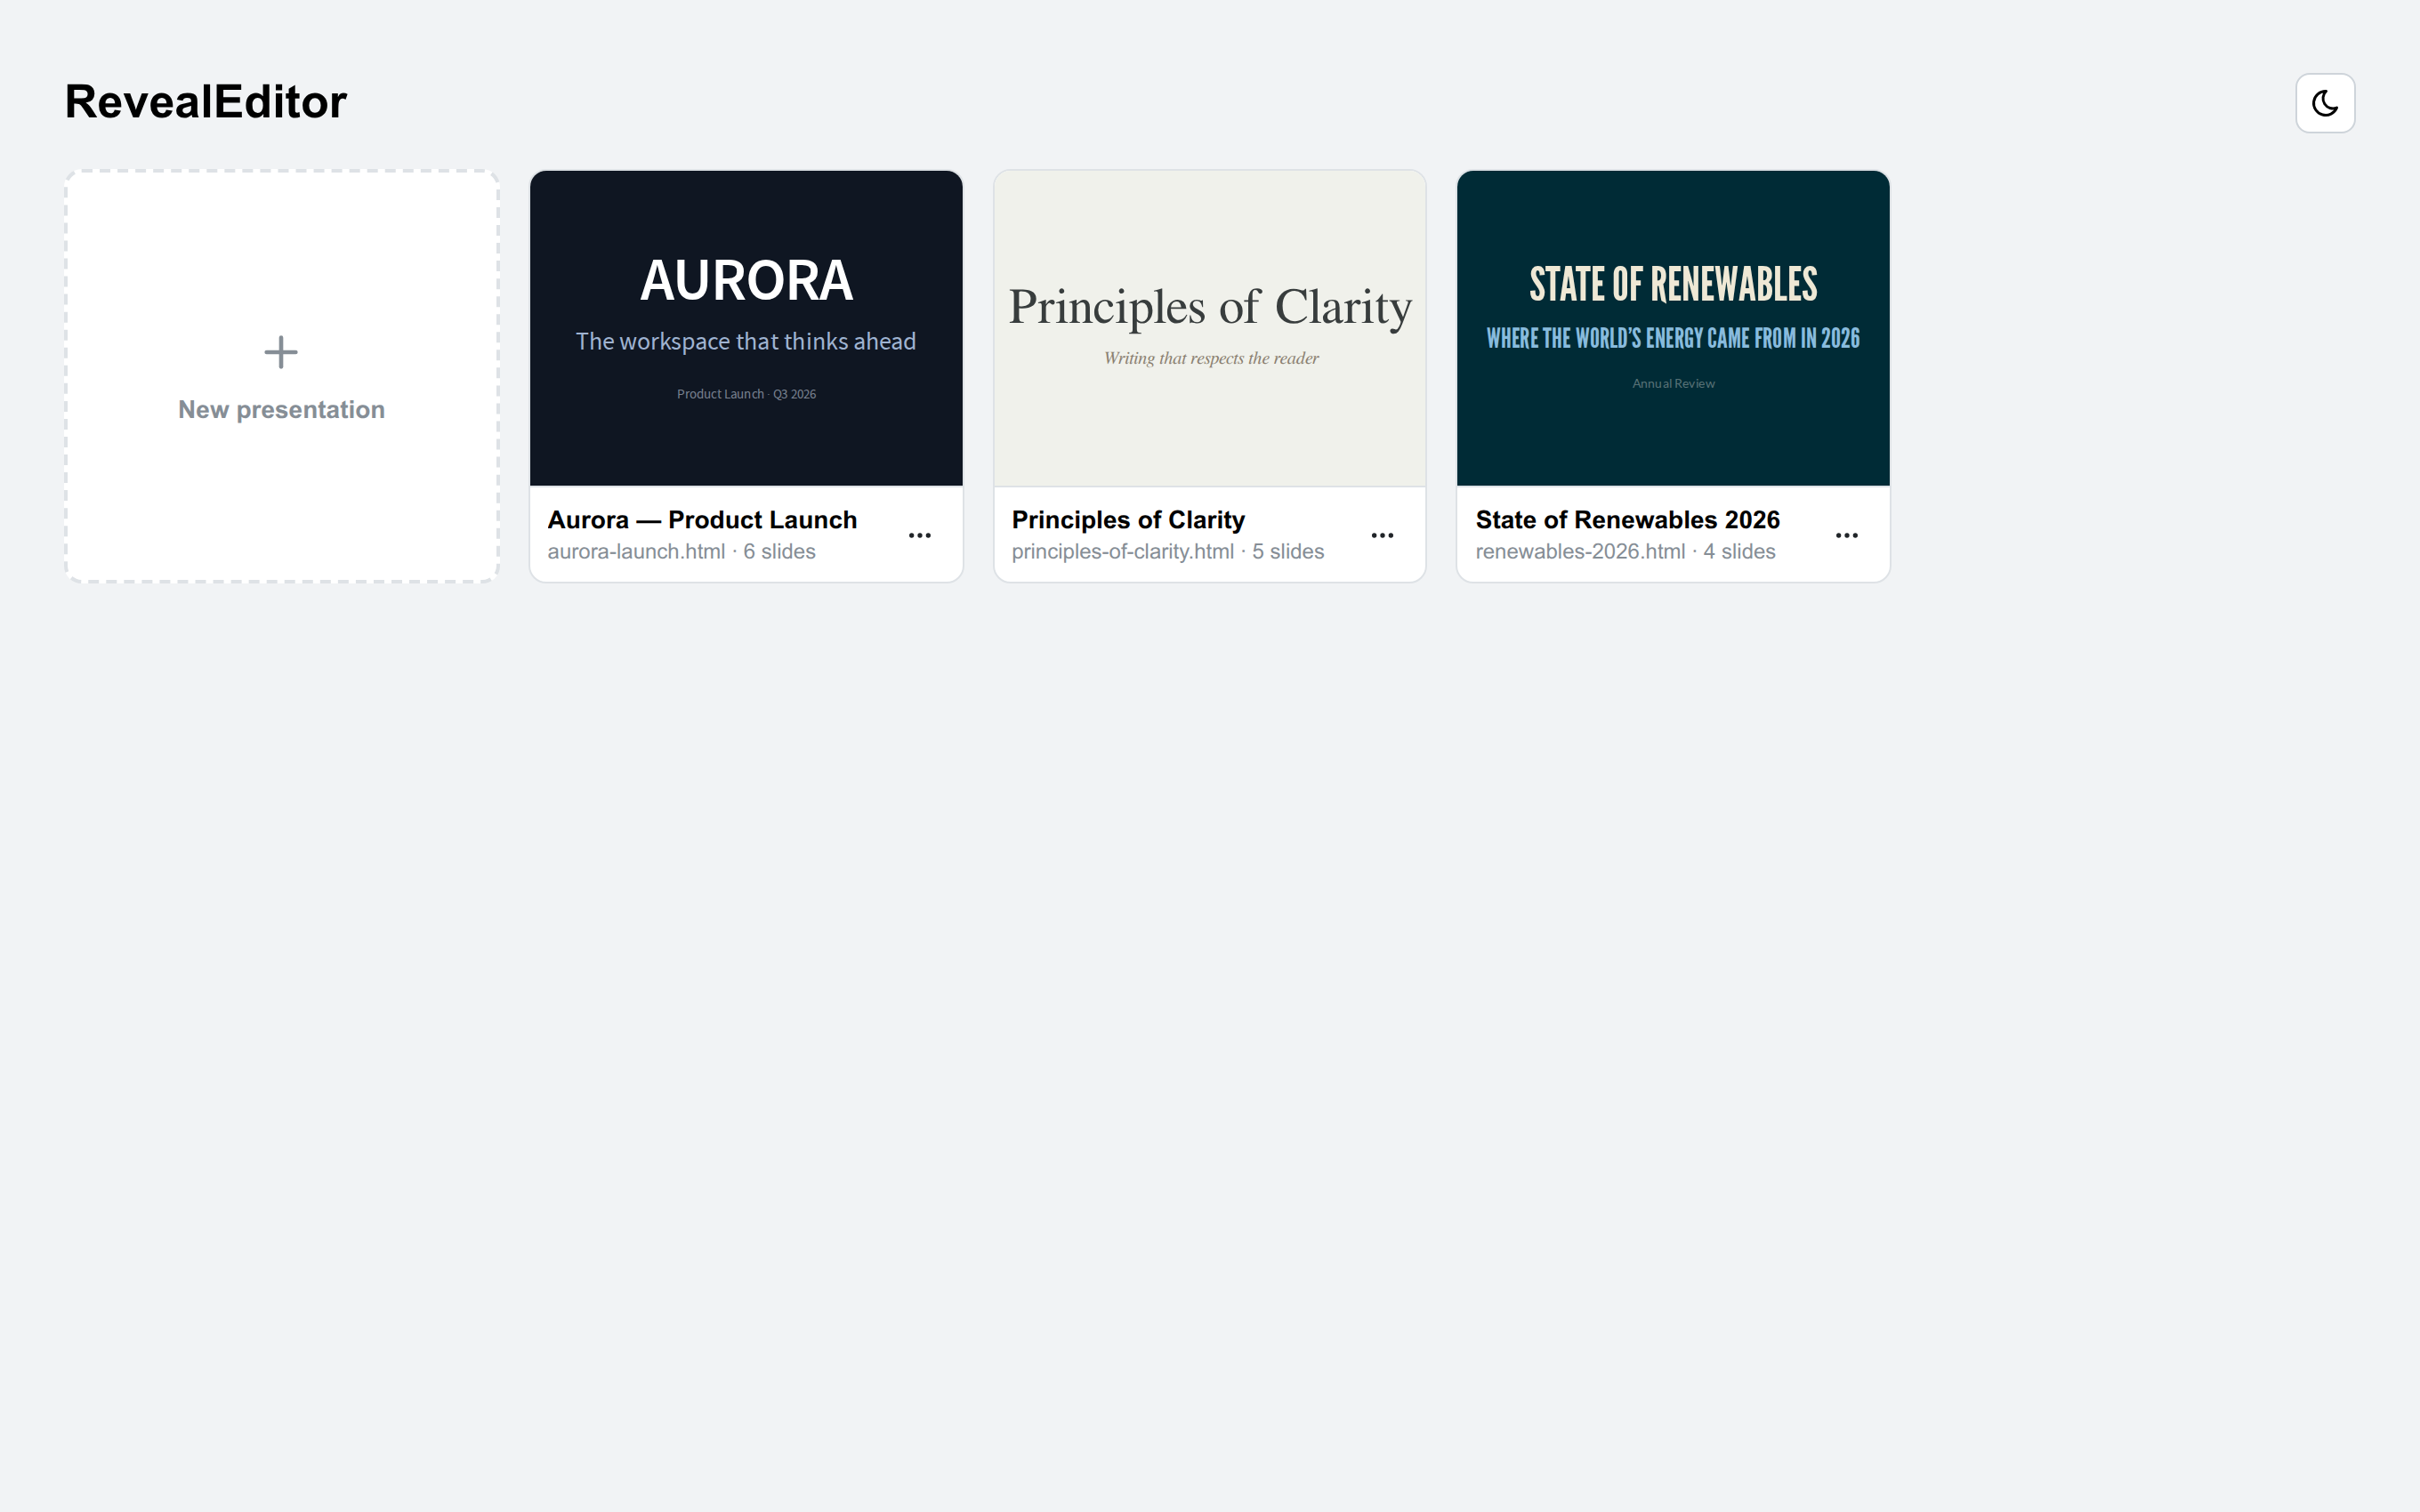
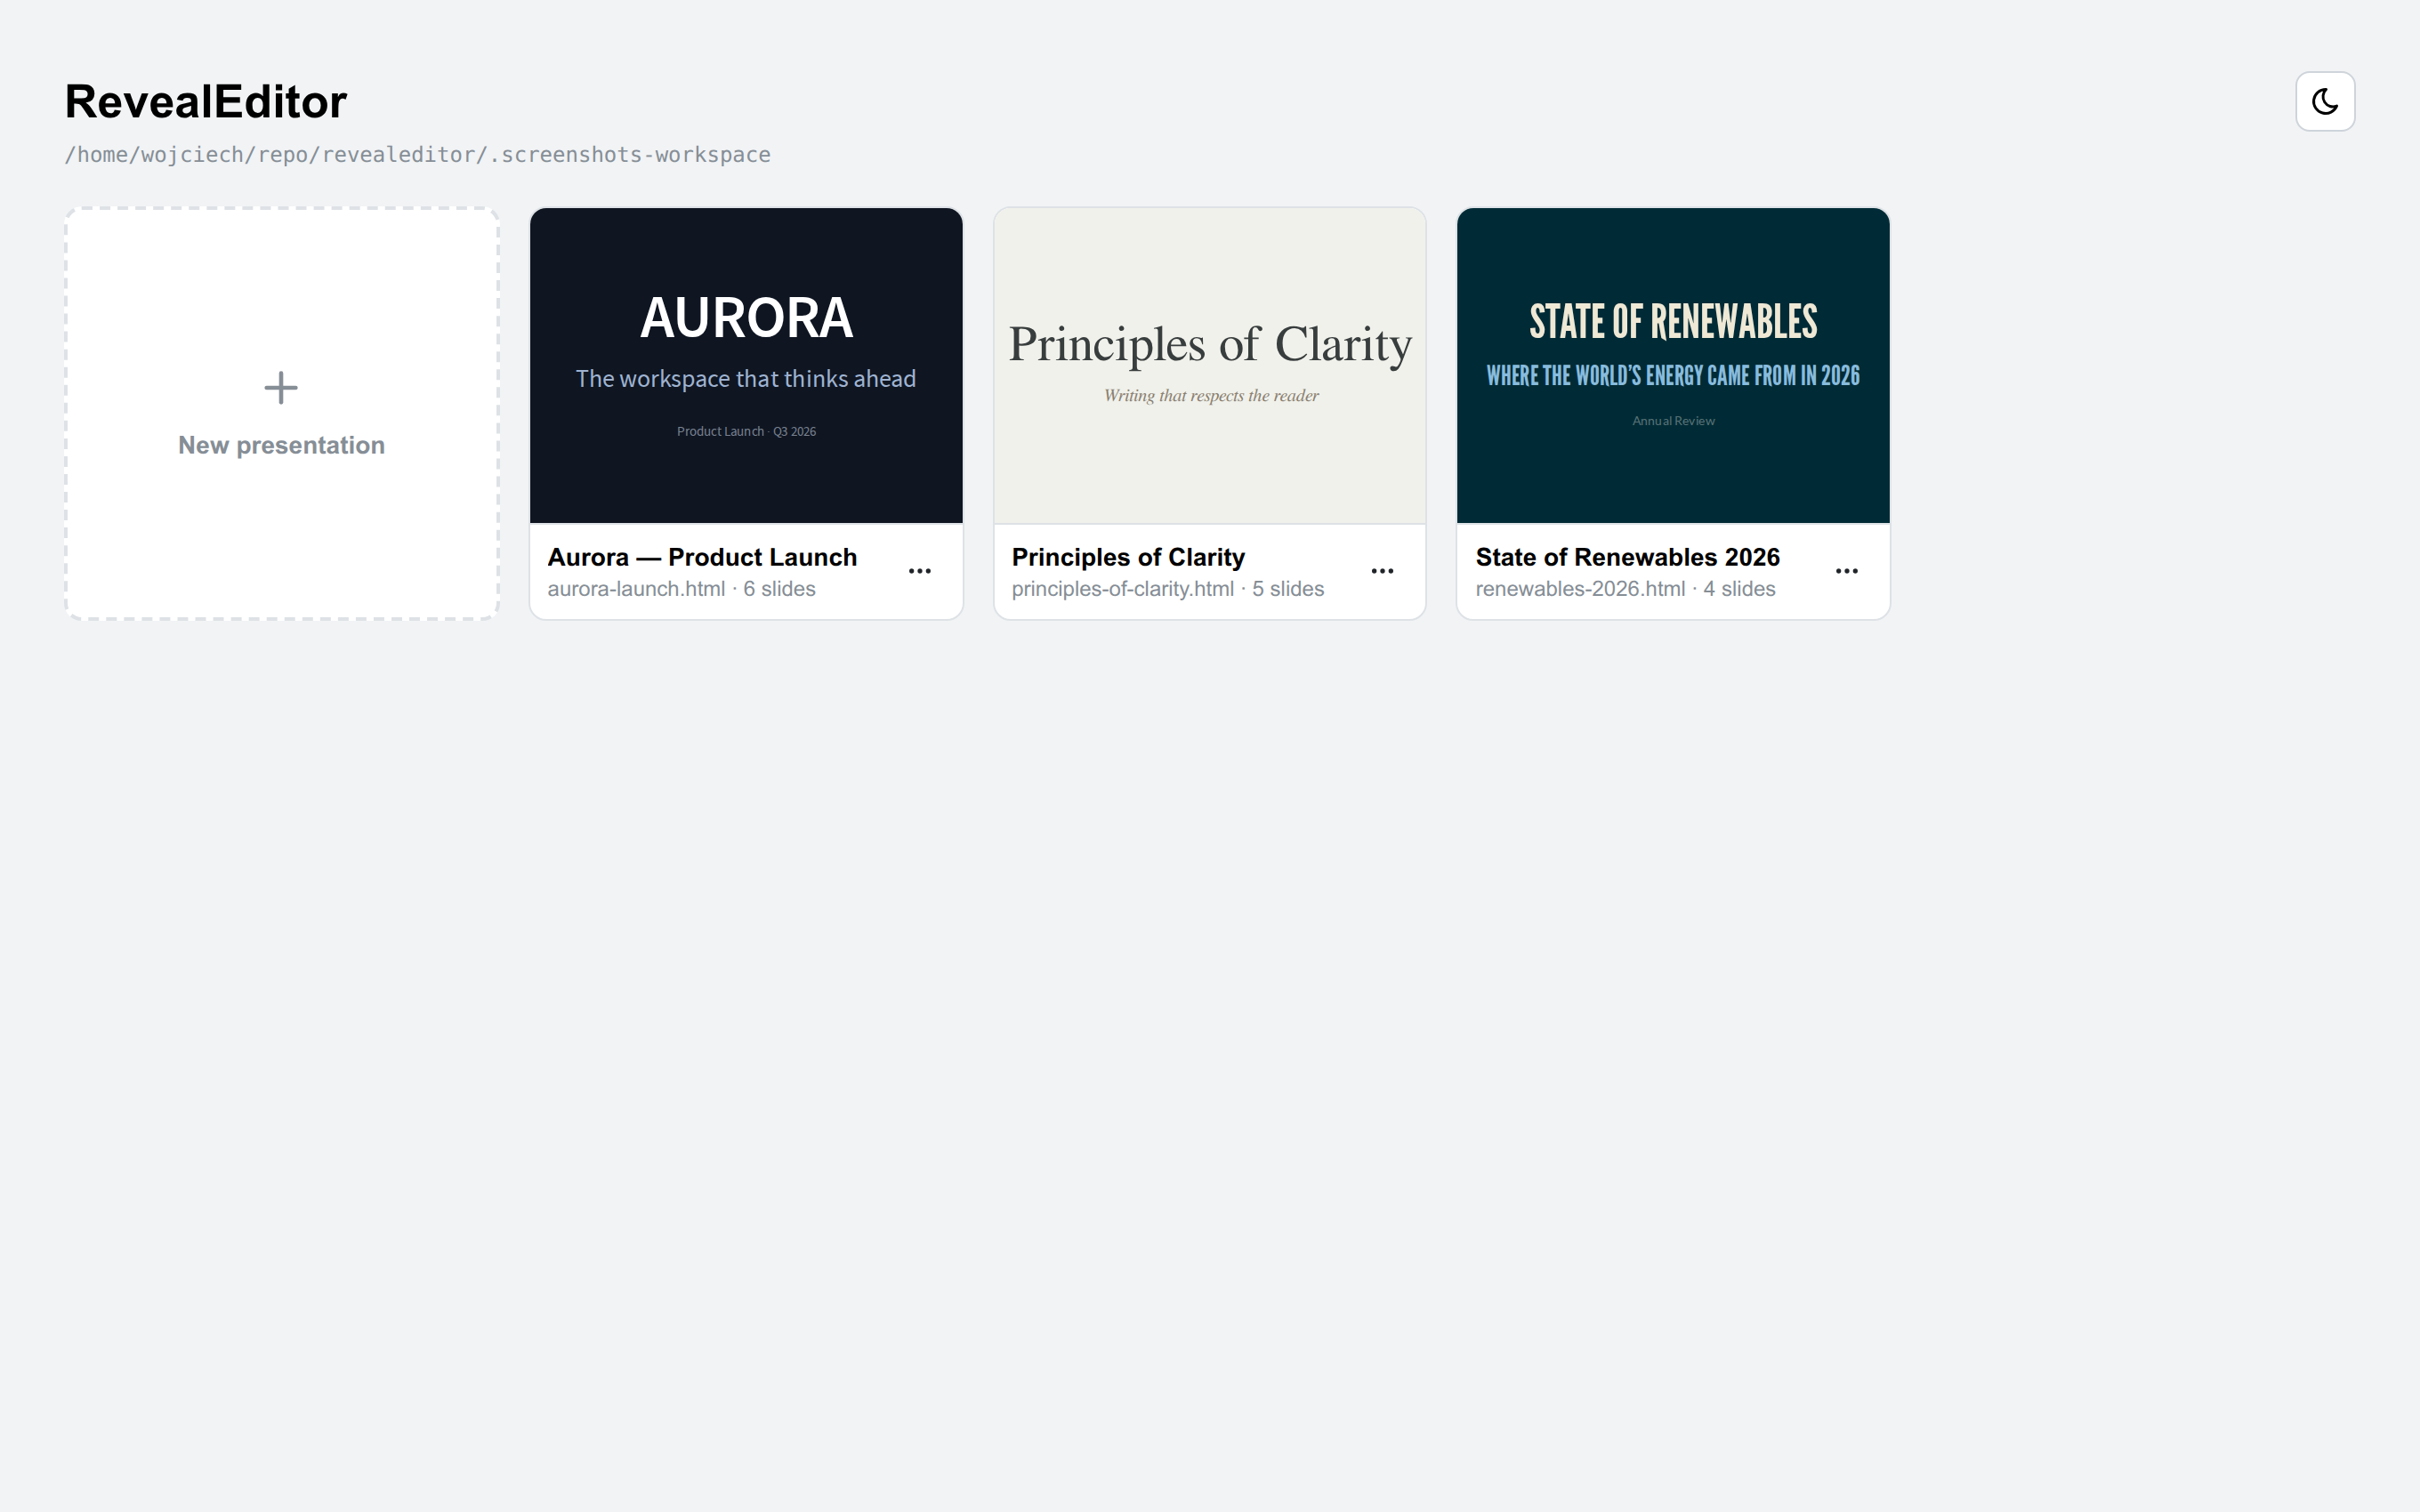
Expand tutorial with screenshots; ship example server config
- Tutorial: fuller 11-step, screenshot-driven walkthrough for end users
  (text ribbon, tables, charts, shapes gallery, inspector). Added 4 new
  captures (chart/shapes/table/text) and reshot deck-list/element-selected
  against the curated sample deck; USAGE Tables/Charts/Shapes now illustrated.
- screenshots.spec.ts: split into independent per-flow captures.
- Ship revealeditor.config.example.json as a committed template (the real
  revealeditor.config.json stays git-ignored); documented copy-and-edit in
  README/USAGE so workspace switching is discoverable.

Claude-Session: https://claude.ai/code/session_01CuvczRYR7o1XWsw8DCmA2P

diff --git a/scripts/screenshots.spec.ts b/scripts/screenshots.spec.ts
@@ -1,11 +1,11 @@
-import { test, expect, type Page } from '@playwright/test';
+import { test, type Page } from '@playwright/test';
 import path from 'node:path';
 
 /**
  * Captures the screenshots used by the docs site into docs/images/. Driven by
- * playwright.screenshots.config.ts against the built app + a curated
- * sample workspace (scripts/sample-workspace). Add a step here and reference
- * the PNG from the tutorial pages.
+ * playwright.screenshots.config.ts against the built app + a curated sample
+ * workspace (scripts/sample-workspace). Each capture is its own test so a
+ * flaky flow can't block the others. Reference the PNGs from the doc pages.
  */
 
 const OUT = path.join(process.cwd(), 'docs', 'images');
@@ -23,29 +23,72 @@ async function openShowcase(page: Page): Promise<void> {
   await page.waitForTimeout(700); // stage scale + theme fonts settle
 }
 
-test('capture docs screenshots', async ({ page }) => {
-  // 1) Deck list (the landing screen).
+test('deck list', async ({ page }) => {
   await page.goto('/');
   await page.getByText(SHOWCASE).waitFor();
   await page.waitForTimeout(500);
   await shot(page, 'deck-list');
+});
 
-  // 2) Editor overview — sorter + canvas + toolbar + inspector.
+test('editor overview', async ({ page }) => {
   await openShowcase(page);
   await shot(page, 'editor-overview');
+});
 
-  // 3) Insert menu open.
+test('insert menu', async ({ page }) => {
+  await openShowcase(page);
   await page.getByRole('button', { name: 'Insert' }).click();
   await page.waitForTimeout(300);
   await shot(page, 'insert-menu');
-  await page.keyboard.press('Escape');
+});
 
-  // 4) A content slide with an element selected → inspector populated.
+test('shapes gallery', async ({ page }) => {
+  await openShowcase(page);
+  await page.getByRole('button', { name: 'Shapes', exact: true }).click();
+  await page.locator('.shapes-grid').first().waitFor();
+  await page.waitForTimeout(200);
+  await shot(page, 'shapes-gallery');
+});
+
+test('element selected', async ({ page }) => {
+  await openShowcase(page);
   await page.locator('.sorter-slide').nth(1).click(); // "Why now" bullets slide
   await page.waitForTimeout(400);
   await stageFrame(page).locator('#re-stage h2').first().click();
   await page.waitForTimeout(400);
   await shot(page, 'element-selected');
+});
 
-  expect(true).toBe(true);
+test('text formatting', async ({ page }) => {
+  await openShowcase(page);
+  await page.locator('.sorter-slide').nth(1).click(); // bullets slide
+  await page.waitForTimeout(400);
+  // Double-click the list to enter a text editing session → the text ribbon shows.
+  await stageFrame(page).locator('#re-stage li').first().dblclick();
+  await page.waitForTimeout(500);
+  await shot(page, 'text-formatting');
+});
+
+test('chart modal', async ({ page }) => {
+  await openShowcase(page);
+  await page.getByRole('button', { name: 'Insert' }).click();
+  await page.getByRole('menuitem', { name: /Chart/ }).click();
+  await page.getByRole('heading', { name: 'Edit chart' }).waitFor();
+  await page.waitForTimeout(500);
+  await shot(page, 'chart-modal');
+});
+
+test('table editing', async ({ page }) => {
+  await openShowcase(page);
+  await page.locator('.sorter-slide').nth(3).click(); // "How it works" — a light slide with room
+  await page.waitForTimeout(400);
+  await page.getByRole('button', { name: 'Insert' }).click();
+  await page.getByRole('menuitem', { name: 'Table' }).click();
+  await page.waitForTimeout(600); // first insert adds preset CSS → stage reload
+  const cell = stageFrame(page).locator('#re-stage tbody td').first();
+  await cell.click();
+  await page.waitForTimeout(150);
+  await cell.click(); // second click opens the cell session
+  await page.waitForTimeout(400);
+  await shot(page, 'table-editing');
 });

diff --git a/docs/TUTORIAL.md b/docs/TUTORIAL.md
@@ -1,12 +1,13 @@
 # Tutorial: your first deck
 
-A hands-on walkthrough. By the end you'll have opened a deck, edited it, added
-content, and exported it — the whole loop. It takes about ten minutes. For a
-reference-style rundown of every feature, see the [user guide](USAGE.md).
+A hands-on walkthrough. By the end you'll have opened a deck, edited its text,
+added a table, a chart and a shape, positioned things, and exported the result —
+the whole loop. Budget about fifteen minutes. For a reference-style rundown of
+every feature, see the [user guide](USAGE.md).
 
 > **Setup:** if the app isn't running yet, do `npm install` then `npm run dev`
-> and open <http://localhost:5173>. See [Getting started](USAGE.md#getting-started)
-> to point it at your own folder of talks.
+> and open <http://localhost:5173>. To edit your own folder of talks, see
+> [Choosing a workspace folder](USAGE.md#choosing-a-workspace-folder).
 
 ## 1. Pick a deck
 
@@ -16,8 +17,8 @@ slide count and when it was last changed.
 ![The deck list](images/deck-list.png)
 
 Click a deck to open it, or **New presentation** to start from a template
-(you'll choose a title, theme and slide size). For this tutorial, open the
-**RevealEditor demo deck**.
+(you'll choose a title, theme and slide size). Follow along with any deck you
+like — the steps below are the same for all of them.
 
 ## 2. Get your bearings
 
@@ -25,80 +26,113 @@ The editor has four areas:
 
 ![The editor](images/editor-overview.png)
 
-- **Sorter** (left) — every slide in the deck as a 2-D map. Horizontal =
-  the main flow; vertical stacks = sub-slides. Drag to reorder; hover a
-  thumbnail for its actions.
-- **Canvas** (center) — the current slide, rendered with the deck's real
-  theme. This is where you edit.
+- **Sorter** (left) — every slide as a 2-D map. Horizontal = the main flow;
+  vertical stacks = sub-slides. Drag to reorder; hover a thumbnail for its
+  actions.
+- **Canvas** (center) — the current slide, rendered with the deck's real theme.
+  This is where you edit.
 - **Toolbar** (top) — the formatting ribbon plus deck actions (PDF, ZIP,
   Offline, Present, Save).
-- **Inspector** (right) — properties for whatever is selected, or for the
-  slide itself when nothing is.
+- **Inspector** (right) — properties for whatever is selected, or for the slide
+  itself when nothing is.
 
-## 3. Edit some text
+Two clicks are worth remembering: **one click selects** an element, a **second
+click edits** it.
 
-Click a heading or paragraph on the canvas to **select** it; click again (or
-press Enter) to **edit** it. Type as you would anywhere. The formatting ribbon
-gives you bold/italic, links, headings vs paragraph, lists, alignment, and text
-/ highlight color — all rendered at true theme fidelity, so what you see is what
-presents.
+## 3. Edit text
 
-Click an empty part of the slide (or press Escape) to finish editing.
+Click a heading or paragraph to select it, then click again (or press Enter) to
+start typing. The ribbon turns into a text toolbar — bold, italic, links,
+headings vs. paragraph, lists, alignment, and text/highlight color, all rendered
+at true theme fidelity.
 
-## 4. Add something
+![Editing text with the formatting ribbon](images/text-formatting.png)
 
-Open the **Insert** menu for images, tables, charts, code blocks, shapes and
-more.
+Pasting text strips Word/Docs formatting by default, so pasted content adopts
+your theme instead of dragging in foreign fonts. Click empty space (or press
+Escape) to finish.
+
+## 4. Insert something
+
+Everything you can add lives in the **Insert** menu (the **+** at the left of the
+ribbon) — and the most common blocks also have their own ribbon buttons.
 
 ![The Insert menu](images/insert-menu.png)
 
-Try **Chart**: a dialog opens with a data grid (paste CSV/TSV straight in),
-type and color options. When you're done it bakes into the slide as a plain
-SVG — your deck stays standalone, but you can reopen and re-edit the chart any
-time because its data lives on the element.
+The next three steps add a table, a chart and a shape.
 
-Shapes work by dragging on the canvas from the **Draw** group — you'll see a
-live preview as you draw. Lines and arrows snap their endpoints to nearby boxes
-and stay attached when you move things, which makes quick diagrams painless.
+## 5. Add a table
 
-## 5. Select, inspect, position
+Insert → **Table** drops in a table you can edit in place. Click a cell to select
+the table; click again to type. **Tab** and the arrow keys move between cells.
+
+![Editing a table cell, with table options in the inspector](images/table-editing.png)
+
+The inspector's **Table** section switches style presets (bordered, striped,
+minimal…), and you can add or remove rows and columns, merge cells, and set
+per-cell colors. Paste from a spreadsheet to fill a table instantly.
+
+## 6. Add a chart
+
+Insert → **Chart** opens the chart editor: pick a type, fill the data grid (or
+paste CSV/TSV), and tweak titles, legend and number formatting — with a live
+preview beside it.
+
+![The chart editor](images/chart-modal.png)
+
+When you click **Save chart** it's baked into the slide as a plain SVG, so your
+deck stays standalone with no chart library. The data stays editable — reopen
+the chart any time to change it.
+
+## 7. Draw a shape or diagram
+
+Open the **Shapes** gallery on the ribbon for rectangles, ellipses, arrows and a
+full set of flowchart shapes.
+
+![The shapes gallery](images/shapes-gallery.png)
+
+Pick a shape and drag on the canvas to draw it — you'll see a live preview.
+Lines and arrows are special: drag an endpoint and it **snaps to the nearest
+box** and stays attached when you move things, so quick diagrams hold together.
+Click a selected shape and type to give it a label.
+
+## 8. Select and fine-tune
 
 Select any element and the **inspector** fills with its properties — size,
-colors, borders, and type-specific options.
+colors, borders, and type-specific options. A small floating toolbar appears for
+quick duplicate/delete.
 
 ![An element selected, inspector populated](images/element-selected.png)
 
 Drag an element to position it freely; snap guides help you line things up, and
 the arrow keys nudge (hold Shift for bigger steps). Everything you do writes
-plain, valid reveal.js markup — inline styles, standard classes — never a
-proprietary format. Changed your mind? **Return to flow** strips the
-positioning back to normal layout.
+plain, valid reveal.js markup — never a proprietary format. Changed your mind?
+**Return to flow** strips the positioning back to normal layout.
 
-## 6. Make it move (optional)
+## 9. Make it move (optional)
 
 Reveal's **fragments** reveal elements one step at a time. Select an element,
-turn on a fragment in the inspector, and pick an effect; reorder them in the
-fragment list. You can step through them right in the editor without launching
-the presentation.
+turn on a fragment in the inspector, pick an effect, and reorder them in the
+fragment list — you can step through them right in the editor.
 
 For slide-to-slide motion, toggle **auto-animate** on a slide and use the
-sorter's *Duplicate for auto-animate step* — edit the copy and reveal morphs
+sorter's *Duplicate for auto-animate step*: edit the copy and reveal morphs
 between the two.
 
-## 7. Present and export
+## 10. Present and export
 
 - **Present** opens the actual file — exactly what your audience sees.
 - **PDF** exports a print-ready PDF in one click.
 - **ZIP** downloads the deck plus its local assets, ready to hand off.
-- **Offline** vendors the CDN reveal.js into the deck folder so it presents
-  with no network — pair it with ZIP for a fully self-contained bundle.
+- **Offline** vendors the CDN reveal.js into the deck folder so it presents with
+  no network — pair it with ZIP for a fully self-contained bundle.
 
-## 8. Save
+## 11. Save
 
-Hit **Save** (Ctrl/Cmd+S). RevealEditor writes clean HTML back to the same
-file — slides you didn't touch stay byte-for-byte identical, so your version
-history only shows what actually changed.
+Hit **Save** (Ctrl/Cmd+S). RevealEditor writes clean HTML back to the same file
+— slides you didn't touch stay byte-for-byte identical, so your version history
+only shows what actually changed.
 
-That's the whole loop. From here, the [user guide](USAGE.md) covers each area
-in more depth, and [publishing](USAGE.md#exporting-and-publishing) shows how to get
+That's the whole loop. From here, the [user guide](USAGE.md) covers each area in
+more depth, and [publishing](USAGE.md#exporting-and-publishing) shows how to get
 a finished deck online.

diff --git a/docs/USAGE.md b/docs/USAGE.md
@@ -57,6 +57,13 @@ Settings live in **`revealeditor.config.json`** in the project directory (not
 your home folder), so configuration travels with the deployment. Point at a
 different file with `--config <path>`.
 
+The repo ships **`revealeditor.config.example.json`** as a template. Copy it and
+edit:
+
+```bash
+cp revealeditor.config.example.json revealeditor.config.json
+```
+
 ```json
 {
   "workspace": "/home/you/talks",
@@ -64,8 +71,10 @@ different file with `--config <path>`.
 }
 ```
 
-Switching folders in the app updates `workspace` here, so the next start
-(without a command-line folder) resumes where you left off.
+`revealeditor.config.json` itself is git-ignored (it ends up holding local
+paths), so your copy stays out of version control. Switching folders in the app
+updates `workspace` here, so the next start (without a command-line folder)
+resumes where you left off.
 
 ## The deck list
 
@@ -135,6 +144,8 @@ header row/column, set per-cell alignment and colors, drag column boundaries to
 resize, and merge/split cells. Paste TSV/CSV from a spreadsheet to fill or grow
 a table.
 
+![Editing a table cell](images/table-editing.png)
+
 ## Charts
 
 Charts are **baked into the deck as inline SVG** — no chart runtime ships with
@@ -148,12 +159,16 @@ can reopen and re-edit them. Insert a chart to open the modal:
 - Colors default from the theme; override per series. Raw-JSON editing is
   available as an escape hatch.
 
+![The chart editor: data grid, options, and live preview](images/chart-modal.png)
+
 ## Shapes & diagrams
 
 Open the **Draw** group (or the shapes gallery) for rectangles, ellipses,
 lines, arrows, and flowchart shapes. Draw by dragging on the canvas; you'll see
 a live preview of the shape. Set fill, stroke color/width/dash and opacity in
 the inspector.
+
+![The shapes gallery](images/shapes-gallery.png)
 
 Lines and arrows are **two-point connectors**: drag either endpoint, and it
 snaps to one of the 8 anchor points on nearby elements. Attached endpoints stay

diff --git a/README.md b/README.md
@@ -22,8 +22,9 @@ node server/dist/index.js ~/path/to/your/talks --port 4321
 Any `.html` file containing a reveal.js `div.slides` is picked up automatically.
 
 You can also switch folders from the deck list at runtime — off by default;
-enable with `--allow-workspace-change` (or `"allowWorkspaceChange": true` in
-`revealeditor.config.json`). Keep it **off** when hosting. See
+enable with `--allow-workspace-change`, or copy `revealeditor.config.example.json`
+to `revealeditor.config.json` and set `"allowWorkspaceChange": true`. Keep it
+**off** when hosting. See
 [Choosing a workspace folder](docs/USAGE.md#choosing-a-workspace-folder).
 
 New here? The [user guide](docs/USAGE.md) walks through editing a deck end to end.